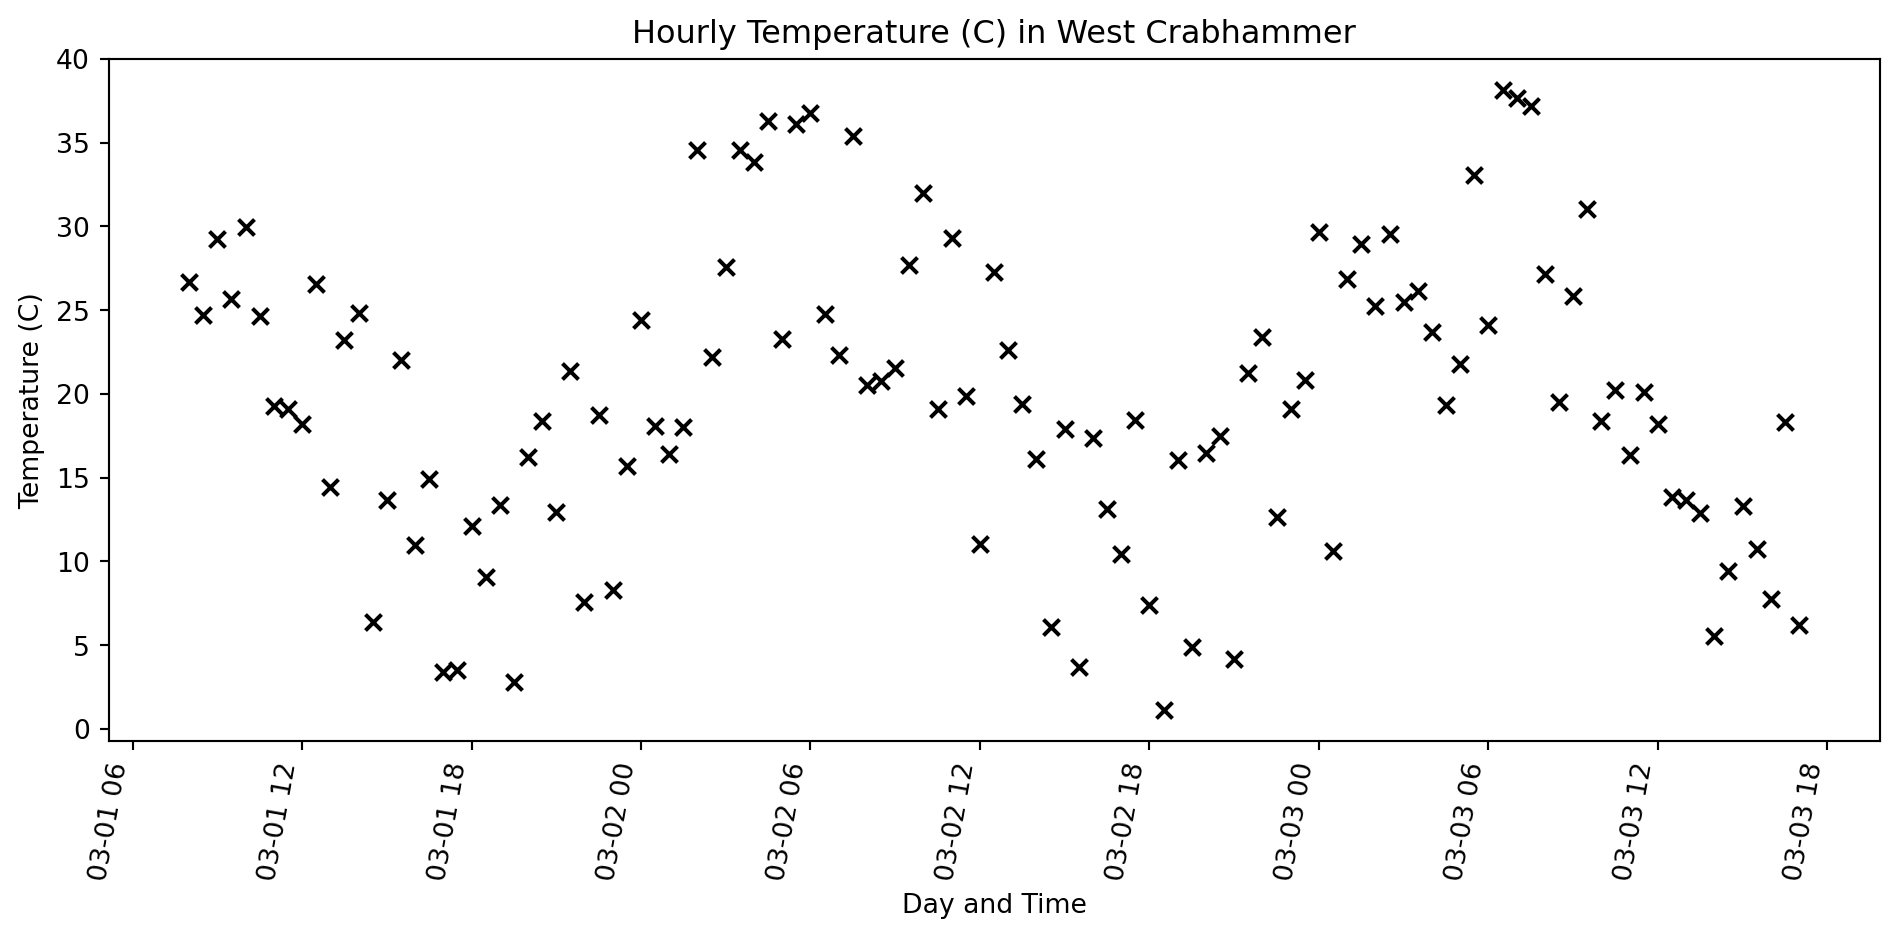
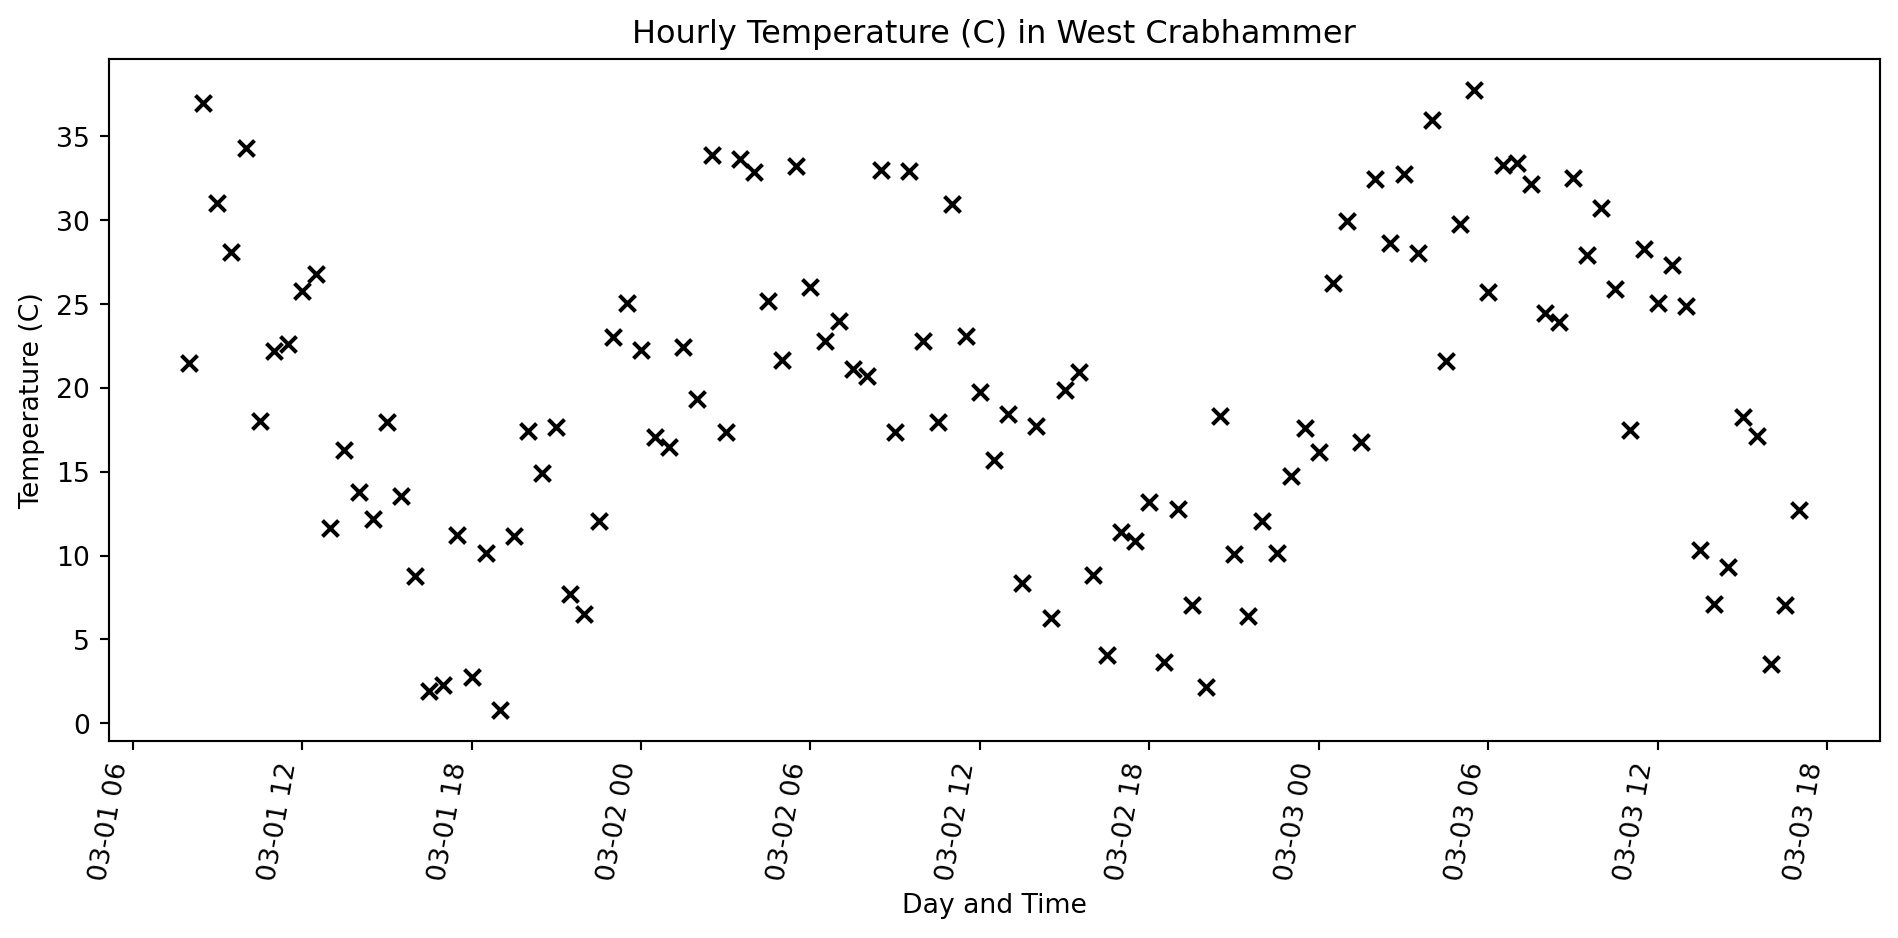
slideshow work

diff --git a/docs/python_geospatial_basics.html b/docs/python_geospatial_basics.html
@@ -261,7 +261,7 @@
 <section id="basic-numbers" class="slide level2">
 <h2>Basic Numbers</h2>
 <p>Floats and Ints don’t do anything all that surprising</p>
-<div id="9b6c397d" class="cell columns column-output-location" data-execution_count="1">
+<div id="3252511d" class="cell columns column-output-location" data-execution_count="1">
 <div class="column">
 <div class="sourceCode cell-code" id="cb1"><pre class="sourceCode numberSource python number-lines code-with-copy"><code class="sourceCode python"><span id="cb1-1"><a></a>a <span class="op">=</span> <span class="dv">2</span> <span class="op">+</span> <span class="dv">2</span></span>
 <span id="cb1-2"><a></a>b <span class="op">=</span> <span class="fl">2.0</span> <span class="op">+</span> <span class="fl">2.0</span></span>
@@ -288,7 +288,7 @@ but 5 // 4 is 1</code></pre>
 <section id="sequences" class="slide level2">
 <h2>Sequences</h2>
 <p>Lists, tuples, and strings ae all sequences</p>
-<div id="32bbd480" class="cell columns column-output-location" data-execution_count="2">
+<div id="941d962e" class="cell columns column-output-location" data-execution_count="2">
 <div class="column">
 <div class="sourceCode cell-code" id="cb3"><pre class="sourceCode numberSource python number-lines code-with-copy"><code class="sourceCode python"><span id="cb3-1"><a></a><span class="co"># a list</span></span>
 <span id="cb3-2"><a></a>a_list <span class="op">=</span> [<span class="dv">1</span>, <span class="dv">2</span>, <span class="dv">3</span>, <span class="dv">4</span>, <span class="dv">5</span>, <span class="dv">6</span>, <span class="dv">7</span>, <span class="dv">8</span>, <span class="dv">9</span>]</span>
@@ -335,7 +335,7 @@ neushorn?</code></pre>
 </section>
 <section id="dictionaries" class="slide level2">
 <h2>Dictionaries</h2>
-<div id="e7bf541a" class="cell columns column-output-location" data-execution_count="3">
+<div id="009ab99f" class="cell columns column-output-location" data-execution_count="3">
 <div class="column">
 <div class="sourceCode cell-code" id="cb5"><pre class="sourceCode numberSource python number-lines code-with-copy"><code class="sourceCode python"><span id="cb5-1"><a></a>pets <span class="op">=</span> {<span class="st">'honden'</span>: <span class="dv">26</span>, <span class="st">'katten'</span>: <span class="dv">100</span>}</span>
 <span id="cb5-2"><a></a></span>
@@ -354,7 +354,7 @@ neushorn?</code></pre>
 </section>
 <section id="iterating" class="slide level2">
 <h2>Iterating</h2>
-<div id="02a0f6f2" class="cell columns column-output-location" data-execution_count="4">
+<div id="0378a114" class="cell columns column-output-location" data-execution_count="4">
 <div class="column">
 <div class="sourceCode cell-code" id="cb7"><pre class="sourceCode numberSource python number-lines code-with-copy"><code class="sourceCode python"><span id="cb7-1"><a></a>a <span class="op">=</span> [<span class="dv">1</span>, <span class="dv">2</span>, <span class="dv">3</span>, <span class="dv">4</span>, <span class="dv">5</span>, <span class="dv">6</span>, <span class="dv">7</span>, <span class="dv">8</span>, <span class="dv">9</span>]</span>
 <span id="cb7-2"><a></a></span>
@@ -383,7 +383,7 @@ is the same as
 </section>
 <section id="pandas-dataframe" class="slide level2 scrollable">
 <h2>Pandas DataFrame</h2>
-<div id="a5c826ee" class="cell columns column-output-location" data-execution_count="5">
+<div id="85c116d0" class="cell columns column-output-location" data-execution_count="5">
 <div class="column">
 <div class="sourceCode cell-code" id="cb9"><pre class="sourceCode numberSource python number-lines code-with-copy"><code class="sourceCode python"><span id="cb9-1"><a></a><span class="im">from</span> datetime <span class="im">import</span> datetime, timedelta</span>
 <span id="cb9-2"><a></a><span class="im">from</span> random <span class="im">import</span> uniform</span>
@@ -446,27 +446,27 @@ is the same as
 <tr class="odd">
 <td data-quarto-table-cell-role="th">0</td>
 <td>2025-03-01 08:00:00</td>
-<td>27.432256</td>
+<td>37.126079</td>
 </tr>
 <tr class="even">
 <td data-quarto-table-cell-role="th">1</td>
 <td>2025-03-01 08:30:00</td>
-<td>34.213410</td>
+<td>36.982678</td>
 </tr>
 <tr class="odd">
 <td data-quarto-table-cell-role="th">2</td>
 <td>2025-03-01 09:00:00</td>
-<td>22.770223</td>
+<td>28.900421</td>
 </tr>
 <tr class="even">
 <td data-quarto-table-cell-role="th">3</td>
 <td>2025-03-01 09:30:00</td>
-<td>22.224300</td>
+<td>17.797250</td>
 </tr>
 <tr class="odd">
 <td data-quarto-table-cell-role="th">4</td>
 <td>2025-03-01 10:00:00</td>
-<td>32.481565</td>
+<td>25.657446</td>
 </tr>
 </tbody>
 </table>
@@ -477,7 +477,7 @@ is the same as
 </section>
 <section id="pandas-dataframe-cont." class="slide level2 scrollable">
 <h2>Pandas DataFrame Cont.</h2>
-<div id="617af02f" class="cell columns column-output-location" data-execution_count="6">
+<div id="61144261" class="cell columns column-output-location" data-execution_count="6">
 <div class="column">
 <div class="sourceCode cell-code" id="cb10"><pre class="sourceCode numberSource python number-lines code-with-copy"><code class="sourceCode python"><span id="cb10-1"><a></a><span class="im">from</span> datetime <span class="im">import</span> datetime, timedelta</span>
 <span id="cb10-2"><a></a><span class="im">from</span> random <span class="im">import</span> uniform</span>
@@ -573,6 +573,9 @@ Figure&nbsp;1: A line plot on a polar axis
 </section>
 <section id="homework" class="slide level2 smaller">
 <h2>Homework</h2>
+<p>A big part of coding is knowing how to use google (or some stupid AI thing, try searching first, the answers are there on the internet do not require the construction of a nuclear power plant to answer)</p>
+<iframe src="https://xkcd.com/1838">
+</iframe>
 <p>If you are choosing Python as you language in this course, create a jupyter notebook and do the following:</p>
 <ul>
 <li class="fragment">Download the results from the class survey from <a href="https://docs.google.com/spreadsheets/d/17qg3d2N1WmE3cIoz5SGpP2AGesVNmaZTwu4ljIRii4U/edit?usp=sharing">here</a> as a csv file.</li>
@@ -618,7 +621,7 @@ Figure&nbsp;1: A line plot on a polar axis
 </section>
 <section id="polygon" class="slide level2">
 <h2>Polygon</h2>
-<div id="b2e479a6" class="cell columns column-output-location" data-execution_count="8">
+<div id="8e61b0f9" class="cell columns column-output-location" data-execution_count="8">
 <div class="column">
 <div class="sourceCode cell-code" id="cb12"><pre class="sourceCode numberSource python number-lines code-with-copy"><code class="sourceCode python"><span id="cb12-1"><a></a><span class="im">from</span> shapely <span class="im">import</span> Polygon</span>
 <span id="cb12-2"><a></a></span>
@@ -645,7 +648,7 @@ Figure&nbsp;1: A line plot on a polar axis
 <section id="reading-files" class="slide level2">
 <h2>Reading Files</h2>
 <p>Here we will read a geojson using the <code>read_file</code> method.</p>
-<div id="908ac4cc" class="cell columns column-output-location" data-execution_count="9">
+<div id="4a8b4902" class="cell columns column-output-location" data-execution_count="9">
 <div class="column">
 <div class="sourceCode cell-code" id="cb14"><pre class="sourceCode numberSource python number-lines code-with-copy"><code class="sourceCode python"><span id="cb14-1"><a></a><span class="im">from</span> pathlib <span class="im">import</span> Path</span>
 <span id="cb14-2"><a></a><span class="im">import</span> geopandas <span class="im">as</span> gpd</span>
